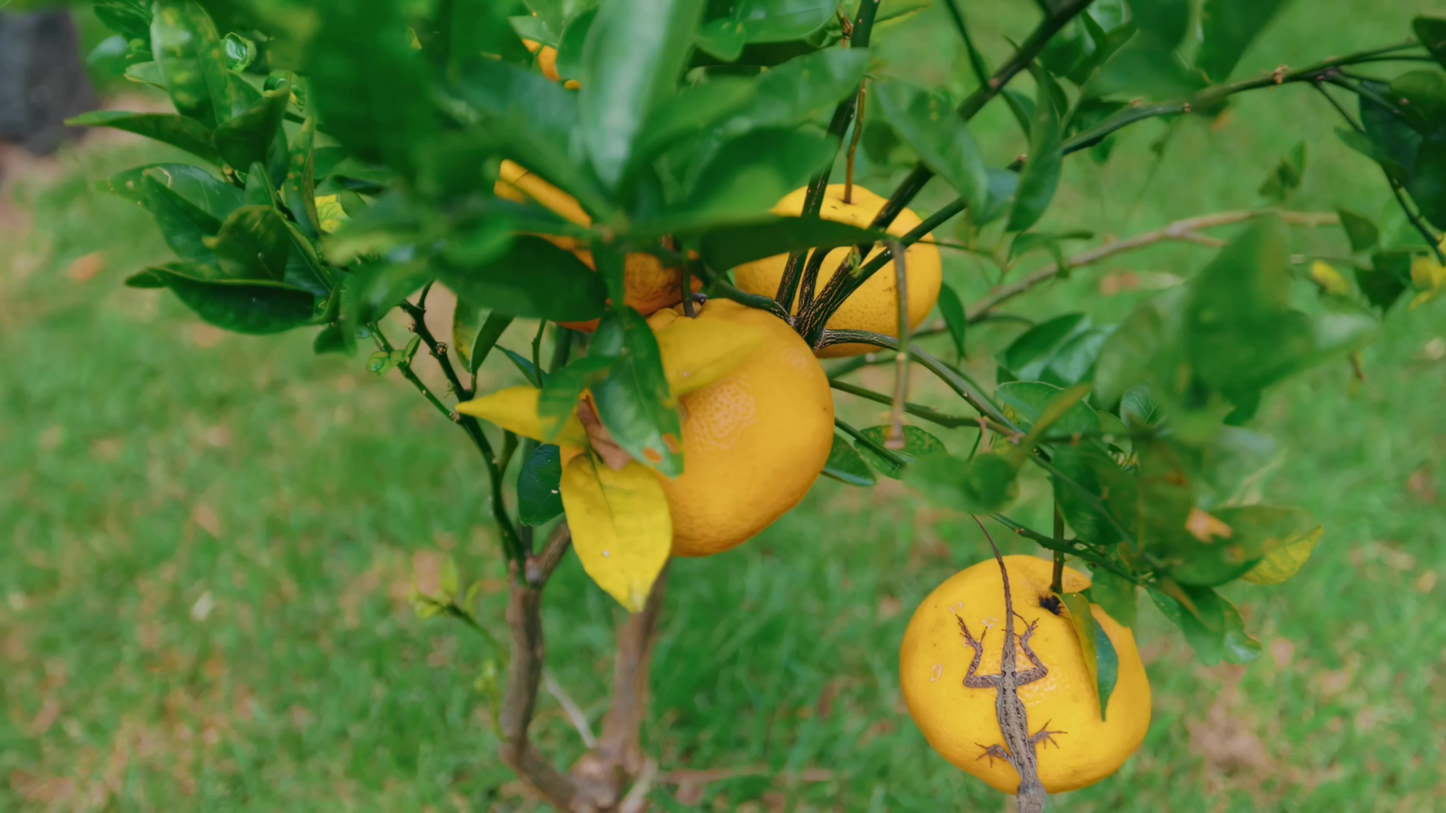
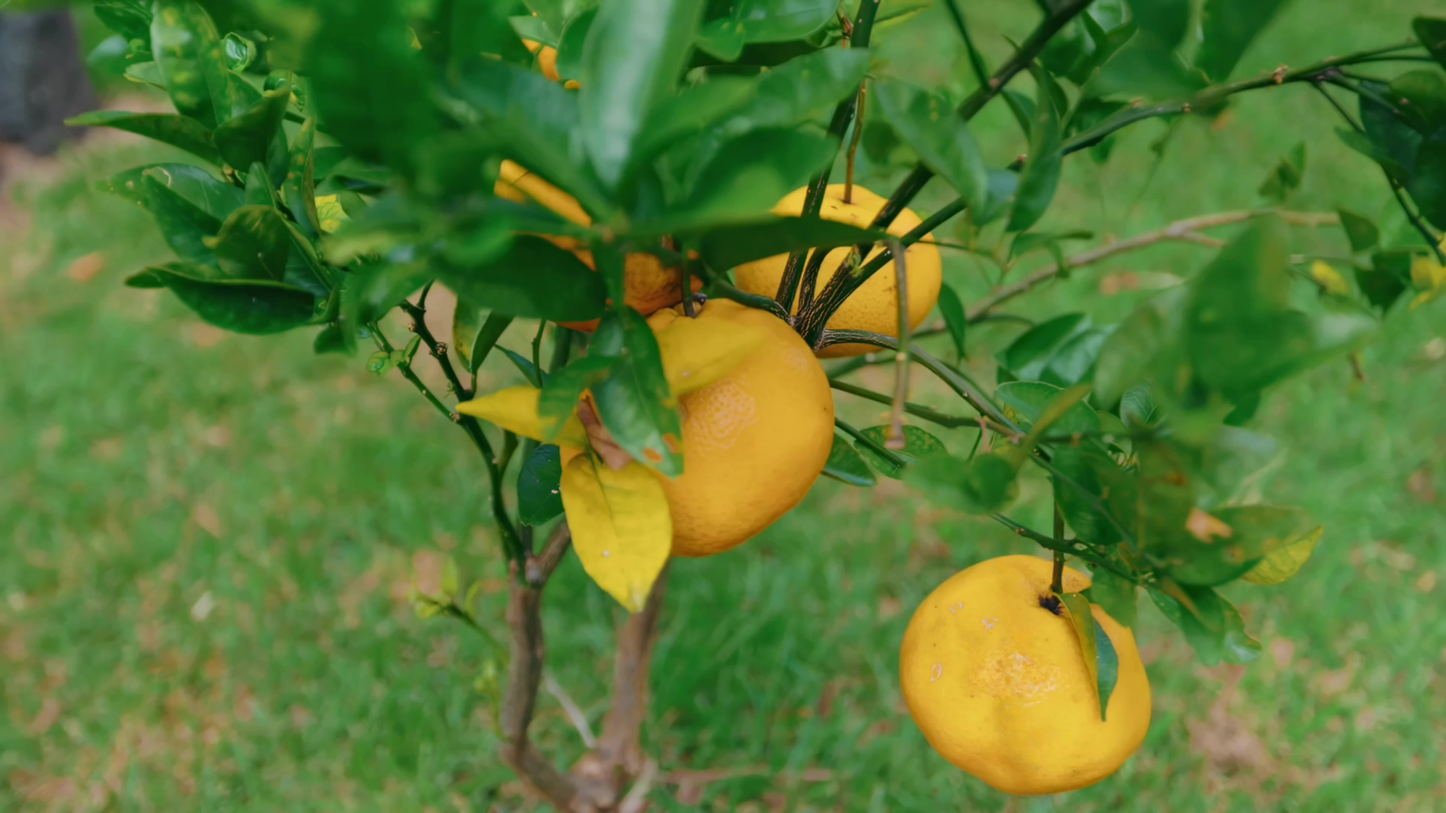
Gallery photo fixes: frame the house, rainbow and honu on the carousel, stair last, ocean still removed, lizard retouched out
Carousel-only focal points (stageFocus) for the night sky, rainbow and honu; Evenings, thumbnails and the collection keep their framing. The stair still closes the carousel. The low-quality ocean film still is removed from the site and from build-media. film-citrus.jpg has the lizard retouched out and is no longer regenerated. 45 photographs.

Changed region(s): [[0.6562, 0.6824, 0.75, 1.0]]

diff --git a/src/data/media.ts b/src/data/media.ts
@@ -21,6 +21,8 @@ export interface MediaItem {
   source: MediaSource;
   /** CSS object-position focal point used when the frame is cropped. */
   focus?: string;
+  /** Focal point on the gallery carousel's wide stage, where it differs from `focus`. */
+  stageFocus?: string;
 }
 
 function load(glob: Glob, path: string): ImageMetadata {
@@ -147,7 +149,7 @@ export const media = {
   groundsLawn: photo('C04A4710.jpg', 'Wide lawn bordered by palms and a lava-rock wall', { caption: 'Half an acre, enclosed by rock wall and fencing', focus: '50% 60%' }),
   groundsGarden: photo('C04A4700.jpg', 'Tropical garden with red ti, palms and lawn', { caption: 'Mature palms and ornamentals', focus: '50% 55%' }),
   groundsWall: photo('C04A4705.jpg', 'Lawn and rock wall beside the house', { caption: 'Rock wall and lawn', focus: '50% 55%' }),
-  citrus: still('film-citrus.jpg', 'Citrus fruit ripening on a tree in the garden, with a gecko on the fruit', {
+  citrus: still('film-citrus.jpg', 'Citrus fruit ripening on a tree in the garden', {
     caption: 'Established fruit trees', focus: '50% 45%',
   }),
 
@@ -165,7 +167,7 @@ export const media = {
     caption: 'Raised garden beds', focus: '50% 62%',
   }),
   rainbow: phone('lanai-rainbow.jpg', 'IMG_5186.JPG', 'A double rainbow over the lawn and red ti hedge, seen from the lanai', {
-    caption: 'A double rainbow from the lanai', focus: '50% 40%',
+    caption: 'A double rainbow from the lanai', focus: '50% 40%', stageFocus: '50% 22%',
   }),
 
   // Setting
@@ -175,7 +177,6 @@ export const media = {
   contextHigh: photo('DJI_20261001134148_0700_D.jpg', 'Aerial view over the neighborhood to the ocean', { caption: 'Kaloli Point' }),
   contextInland: photo('DJI_20261001134233_0716_D.jpg', 'Aerial view across the treetops of Hawaiian Paradise Park', { caption: 'Hawaiian Paradise Park' }),
   aerialSite: photo('DJI_20261001133658_0627_D.jpg', 'Aerial view of the house, lawn, solar array and water catchment tank', { caption: 'The site from above' }),
-  filmOcean: still('film-ocean-aerial.jpg', 'Aerial view over treetops toward the Pacific Ocean', { caption: 'Toward the ocean', focus: '50% 50%' }),
   filmPoster: still('film-poster-v2.jpg', 'Aerial view of the octagonal residence among tall pines, from the property film', {
     caption: 'From the property film', focus: '50% 50%',
   }),
@@ -188,13 +189,15 @@ export const media = {
     caption: 'Honu on the lava shoreline near Kaloli Point', focus: '50% 70%',
   }),
   honuShore: phone('kaloli-honu-shore.jpg', 'IMG_8217.jpeg', 'A green sea turtle resting on a sandy cove near Kaloli Point', {
-    caption: 'Honu resting on the shore near Kaloli Point', focus: '50% 70%',
+    caption: 'Honu resting on the shore near Kaloli Point', focus: '50% 70%', stageFocus: '50% 40%',
   }),
 
   // Evenings (owner photographs from the public listing)
   sunsetHouse: owner('listing-sunset-house.jpg', 'The house beneath a pink and violet sky at dusk, with hibiscus in the foreground', { caption: 'Dusk over the house', focus: '56% 45%' }),
   sunsetYard: owner('listing-sunset-yard.jpg', 'Sunset clouds and a crescent moon over the lawn, palms and red ti', { caption: 'Sunset over the garden', focus: '50% 40%' }),
-  nightSky: owner('listing-night-sky.jpg', 'A starry night sky above the illuminated house', { caption: 'Stars above the house', focus: '50% 35%' }),
+  nightSky: owner('listing-night-sky.jpg', 'A starry night sky above the illuminated house', {
+    caption: 'Stars above the house', focus: '50% 35%', stageFocus: '50% 70%',
+  }),
 
   agentPortrait: still('agent-misti.jpg', 'Misti R. Tyrin, listing agent', { focus: '62% 30%', file: 'assets/misti pic.avif', source: 'agent' }),
 } satisfies Record<string, MediaItem>;
@@ -220,13 +223,14 @@ export const galleryChapters: GalleryChapter[] = [
   { id: 'lanais', title: 'Lanais', items: [media.lanaiCovered, media.lanaiFurnished, media.lanaiRockers, media.lanaiTopView, media.rainbow] },
   { id: 'retreat', title: 'Bedrooms & baths', items: [media.primaryBedroom, media.primaryDesk, media.primaryBath, media.primaryShower, media.primaryVanity, media.flexRoom, media.gardenBath] },
   { id: 'grounds', title: 'Grounds & garden', items: [media.groundsGarden, media.groundsWall, media.groundsLawn, media.coconuts, media.lilikoi, media.papaya, media.raisedBeds, media.citrus] },
-  { id: 'setting', title: 'Kaloli Point', items: [media.aerialSite, media.contextOcean, media.contextHigh, media.contextInland, media.filmOcean, media.lookout, media.honuLava, media.honuShore] },
+  { id: 'setting', title: 'Kaloli Point', items: [media.aerialSite, media.contextOcean, media.contextHigh, media.contextInland, media.lookout, media.honuLava, media.honuShore] },
   { id: 'evenings', title: 'Evenings', items: [media.sunsetHouse, media.sunsetYard, media.nightSky] },
 ];
 
 export const galleryCount = galleryChapters.reduce((n, c) => n + c.items.length, 0);
 
-// The listing agent's carousel order (iokuarealestate.com, MLS 733498); the rest of the collection follows in its own order.
+// The listing agent's carousel order (iokuarealestate.com, MLS 733498); the rest of the collection follows in its own order,
+// and the stair still closes the carousel.
 const agentCarousel: MediaItem[] = [
   media.heroAerial, media.entry, media.gardenLiving, media.gardenLiving2, media.gardenBath, media.flexRoom,
   media.lanaiCovered, media.kitchenWide, media.kitchenSink, media.kitchenDetail, media.kitchenIsland, media.kitchenHall,
@@ -236,7 +240,8 @@ const agentCarousel: MediaItem[] = [
 ];
 export const carouselPhotos: MediaItem[] = [
   ...agentCarousel,
-  ...galleryChapters.flatMap((c) => c.items).filter((m) => !agentCarousel.includes(m)),
+  ...galleryChapters.flatMap((c) => c.items).filter((m) => !agentCarousel.includes(m) && m !== media.stairLight),
+  media.stairLight,
 ];
 
 // Paid assets intentionally left out of the editorial set (still in assets/ and listed in docs/MEDIA_INVENTORY.md).

diff --git a/tests/site.spec.ts b/tests/site.spec.ts
@@ -386,12 +386,14 @@ test.describe('page', () => {
       page.locator(sel).evaluateAll((as) => as.map((a) => (a as HTMLElement).dataset.pswpSrc!.split('/').pop()!.split('.')[0]!));
     const order = await files('[data-carousel] a[data-gallery="carousel"]');
     const album = await files('a[data-gallery="all"]');
-    expect(order).toHaveLength(46);
+    expect(order).toHaveLength(45);
     expect([...order].sort(), 'every photograph, once').toEqual([...album].sort());
+    expect(album, 'the low-quality ocean film still is gone').not.toContain('film-ocean-aerial');
     expect(order.slice(0, 3), 'in the agent’s order').toEqual(['DJI_20261001133743_0632_D', 'C04A4658', 'C04A4729']);
     expect(order[29]).toBe('listing-night-sky');
-    const rest = order.slice(30);
+    const rest = order.slice(30, -1);
     expect(rest, 'then the others in album order').toEqual(album.filter((f) => rest.includes(f)));
+    expect(order.at(-1), 'the stair still closes the carousel').toBe('film-stair-light');
 
     const carousel = page.locator('[data-carousel]');
     const stage = carousel.locator('[data-carousel-stage]');
@@ -401,7 +403,7 @@ test.describe('page', () => {
     await carousel.locator('[data-carousel-thumb="3"]').click();
     await expect(index).toHaveText('04');
     await expect(carousel.locator('[data-carousel-toggle]'), 'choosing a photo stops the slideshow').toHaveAttribute('aria-pressed', 'true');
-    await expect(carousel.locator('.slide:not([inert])')).toHaveAttribute('aria-label', '4 of 46');
+    await expect(carousel.locator('.slide:not([inert])')).toHaveAttribute('aria-label', '4 of 45');
     await carousel.locator('[data-carousel-next]').click();
     await expect(index).toHaveText('05');
     await carousel.locator('[data-carousel-prev]').click();
@@ -458,15 +460,15 @@ test.describe('page', () => {
     await expect(pswp).toHaveAttribute('role', 'dialog');
     const count = pswp.locator('.kp-count');
     const thumbs = pswp.locator('.kp-thumbs button');
-    await expect(count).toHaveText('05 / 46');
-    await expect(thumbs).toHaveCount(46);
+    await expect(count).toHaveText('05 / 45');
+    await expect(thumbs).toHaveCount(45);
     await expect(thumbs.nth(4)).toHaveAttribute('aria-current', 'true');
     await expect(pswp.locator('.pswp__counter'), 'one counter only').toHaveCount(0);
     await page.waitForTimeout(700);
     await page.keyboard.press('ArrowRight');
-    await expect(count).toHaveText('06 / 46');
+    await expect(count).toHaveText('06 / 45');
     await thumbs.nth(9).click();
-    await expect(count).toHaveText('10 / 46');
+    await expect(count).toHaveText('10 / 45');
     await expect(thumbs.nth(9)).toHaveAttribute('aria-current', 'true');
     let last = 10;
     if (!hasTouch) {
@@ -478,7 +480,7 @@ test.describe('page', () => {
       await swipe(page, pswp.locator('.pswp__scroll-wrap'), browserName, hasTouch);
       last = 11;
     }
-    await expect(count).toHaveText(`${last} / 46`);
+    await expect(count).toHaveText(`${last} / 45`);
     await page.keyboard.press('Escape');
     await expect(pswp).toHaveCount(0);
     await expect(index, 'the carousel waits on the last photo viewed').toHaveText(String(last));
@@ -492,22 +494,22 @@ test.describe('page', () => {
     await expect(figure.locator('a')).toHaveAttribute('data-pswp-src', /DJI_20261001133743_0632_D/);
   });
 
-  test('all 46 photographs open in one collection, with the viewer inside it', { tag: '@phone' }, async ({ page }) => {
+  test('all 45 photographs open in one collection, with the viewer inside it', { tag: '@phone' }, async ({ page }) => {
     await page.goto('/');
     const open = page.locator('[data-open-all]');
     await open.scrollIntoViewIfNeeded();
     await open.click();
     const all = page.locator('#all-photos');
     await expect(all).toBeVisible();
-    await expect(all.locator('a[data-gallery="all"]')).toHaveCount(46);
+    await expect(all.locator('a[data-gallery="all"]')).toHaveCount(45);
     await expect(page.locator('[data-sticky-cta]')).toHaveAttribute('data-visible', 'false');
     await all.locator('a[data-gallery="all"]').nth(5).click();
     const caption = all.locator('.pswp__kp-caption');
-    await expect(caption).toContainText('06 / 46');
-    await expect(caption.locator('.kp-thumbs button'), 'the same full-size experience as the carousel').toHaveCount(46);
+    await expect(caption).toContainText('06 / 45');
+    await expect(caption.locator('.kp-thumbs button'), 'the same full-size experience as the carousel').toHaveCount(45);
     await page.waitForTimeout(700);
     await page.keyboard.press('ArrowRight');
-    await expect(caption).toContainText('07 / 46');
+    await expect(caption).toContainText('07 / 45');
     await page.keyboard.press('Escape');
     await expect(all.locator('.pswp')).toHaveCount(0);
     await expect(all).toBeVisible();
